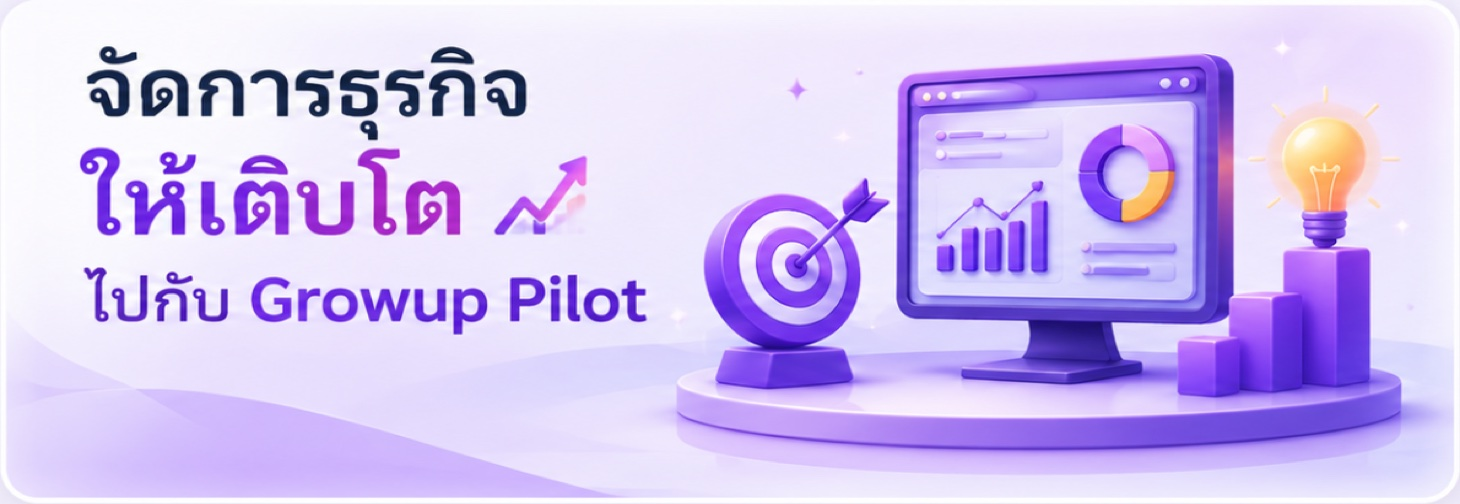
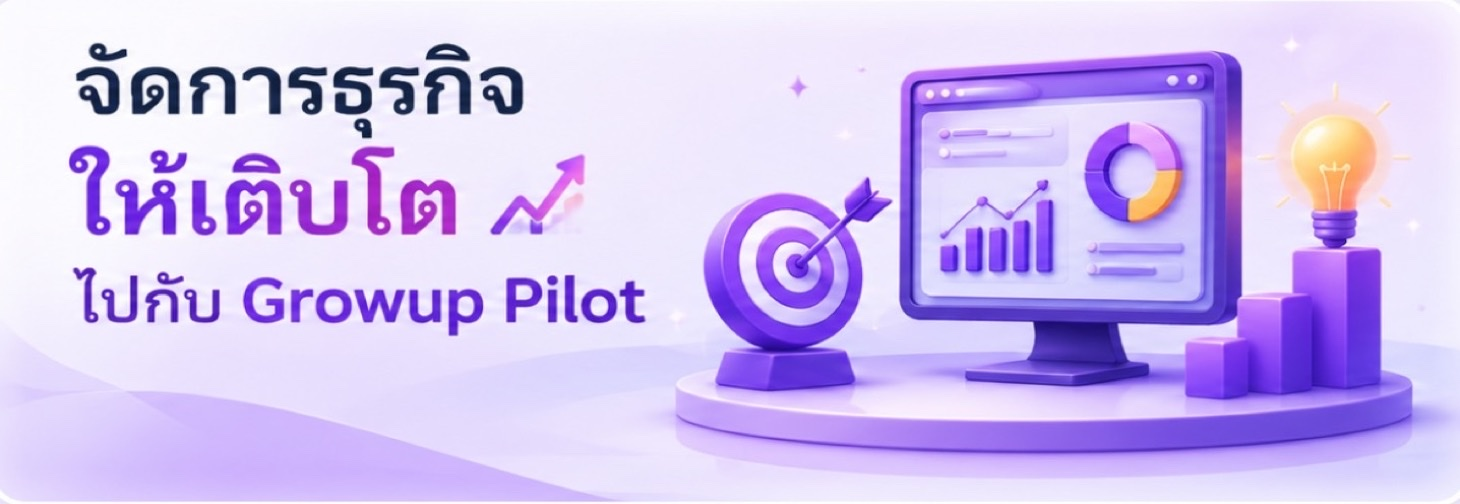
Clean light home hero frames

diff --git a/public/index.html b/public/index.html
@@ -13,7 +13,7 @@
     <link rel="preload" as="image" href="/icons/logo.png?v=20260718-website-logo-transparent-v1" fetchpriority="high">
     <link rel="preload" as="image" href="/mobile-home-avatar.png" fetchpriority="high" media="(max-width: 780px)">
     <link rel="preload" as="image" type="image/png" href="/icons/login-logo-192.png?v=20260718-website-logo-transparent-v1" fetchpriority="high">
-    <link rel="preload" as="image" href="/mobile-home-hero-light.jpg?v=[phone redacted]-home-light-v1" fetchpriority="high" media="(max-width: 780px) and (prefers-color-scheme: light)">
+    <link rel="preload" as="image" href="/mobile-home-hero-light.jpg?v=[phone redacted]-home-light-clean-v2" fetchpriority="high" media="(max-width: 780px) and (prefers-color-scheme: light)">
     <link rel="preload" as="image" href="/mobile-home-hero.png?v=[phone redacted]-mobile-hero-clean" fetchpriority="high" media="(max-width: 780px) and (prefers-color-scheme: dark)">
     <script>
       document.documentElement.classList.add("app-startup-pending");
@@ -22,7 +22,7 @@
         const mobileHero = new Image();
         mobileHero.decoding = "async";
         mobileHero.src = systemLight
-          ? "/mobile-home-hero-light.jpg?v=[phone redacted]-home-light-v1"
+          ? "/mobile-home-hero-light.jpg?v=[phone redacted]-home-light-clean-v2"
           : "/mobile-home-hero.png?v=[phone redacted]-mobile-hero-clean";
       }
     </script>
@@ -45,7 +45,7 @@
     <link rel="icon" type="image/png" sizes="32x32" href="/favicon-32x32.png?v=[phone redacted]-mobile-icon-v1">
     <link rel="icon" type="image/png" sizes="16x16" href="/favicon-16x16.png?v=[phone redacted]-mobile-icon-v1">
     <link rel="apple-touch-icon" sizes="180x180" href="/icons/growup-apple-touch-icon-180-20260718-installed-app-v2.png?v=20260718-installed-app-icon-v2">
-    <link rel="preload" as="image" href="/desktop-dashboard-hero-light.jpg?v=20260719-home-light-v1" fetchpriority="high" media="(min-width: 769px) and (prefers-color-scheme: light)">
+    <link rel="preload" as="image" href="/desktop-dashboard-hero-light.jpg?v=20260719-home-light-clean-v2" fetchpriority="high" media="(min-width: 769px) and (prefers-color-scheme: light)">
     <link rel="preload" as="image" type="image/webp" href="/desktop-dashboard-hero.webp?v=20260706-webp-v1" fetchpriority="high" media="(min-width: 769px) and (prefers-color-scheme: dark)">
     <script>
       (() => {
@@ -56,7 +56,7 @@
         document.documentElement.dataset.theme = resolved;
       })();
     </script>
-    <link rel="stylesheet" href="/styles.css?v=20260719-home-light-hero-v2">
+    <link rel="stylesheet" href="/styles.css?v=20260719-home-light-clean-v3">
   </head>
   <body>
     <div id="appStartupLoader" class="app-startup-loader" aria-hidden="true">
@@ -497,9 +497,9 @@
       </form>
     </dialog>
 
-    <script src="/app.js?v=20260719-home-light-hero-v1"></script>
+    <script src="/app.js?v=20260719-home-light-clean-v3"></script>
     <script>
-      const swUrl = "/service-worker.js?v=20260719-home-light-hero-v2";
+      const swUrl = "/service-worker.js?v=20260719-home-light-clean-v3";
       if ("serviceWorker" in navigator) {
         window.addEventListener("load", () => {
           navigator.serviceWorker.register(swUrl).then(registration => registration.update()).catch(() => {});

diff --git a/scripts/dashboard-opportunity-summary-test.js b/scripts/dashboard-opportunity-summary-test.js
@@ -205,13 +205,13 @@ function assertSharedSummary(width, mode) {
   }
   if (mode === "desktop") {
     const setup = api.mobileSetupWizardState();
-    if (!dashboardHtml.includes("/desktop-dashboard-hero-light.jpg?v=20260719-home-light-v1")) {
+    if (!dashboardHtml.includes("/desktop-dashboard-hero-light.jpg?v=20260719-home-light-clean-v2")) {
       fail("desktop light dashboard must render the separate light hero asset");
     }
     if (!dashboardHtml.includes('data-dark-src="/desktop-dashboard-hero.webp?v=20260706-webp-v1"')) {
       fail("desktop dashboard must keep the dark hero asset available for theme switching");
     }
-    if (dashboardHtml.includes("/mobile-home-hero-light.jpg?v=[phone redacted]-home-light-v1")) {
+    if (dashboardHtml.includes("/mobile-home-hero-light.jpg?v=[phone redacted]-home-light-clean-v2")) {
       fail("desktop dashboard must not render the mobile light hero asset");
     }
     if (!dashboardHtml.includes(`<strong>${setup.percent}%</strong>`) || !dashboardHtml.includes(`เสร็จแล้ว ${setup.completeCount} จาก ${setup.steps.length} ขั้นตอน`) || !dashboardHtml.includes(`style="width:${setup.percent}%"`)) {
@@ -227,13 +227,13 @@ function assertSharedSummary(width, mode) {
     if (!dashboardHtml.includes("เปิดดู")) fail("desktop notification rows must preserve the existing row action label");
   }
   if (mode === "mobile") {
-    if (!dashboardHtml.includes("/mobile-home-hero-light.jpg?v=[phone redacted]-home-light-v1")) {
+    if (!dashboardHtml.includes("/mobile-home-hero-light.jpg?v=[phone redacted]-home-light-clean-v2")) {
       fail("mobile light dashboard must render the separate light hero asset");
     }
     if (!dashboardHtml.includes('data-dark-src="/mobile-home-hero.png?v=[phone redacted]-mobile-hero-clean"')) {
       fail("mobile dashboard must keep the dark hero asset available for theme switching");
     }
-    if (dashboardHtml.includes("/desktop-dashboard-hero-light.jpg?v=20260719-home-light-v1")) {
+    if (dashboardHtml.includes("/desktop-dashboard-hero-light.jpg?v=20260719-home-light-clean-v2")) {
       fail("mobile dashboard must not render the desktop light hero asset");
     }
   }
@@ -295,6 +295,9 @@ if (!source.includes("data-open-notification=") || !source.includes("data-open-n
 }
 if (!styles.includes("grid-template-columns: repeat(5, minmax(0, 1fr));")) {
   fail("desktop quick-action grid must use five equal columns");
+}
+if (!styles.includes("object-fit: cover;") || !styles.includes("isolation: isolate;")) {
+  fail("light hero images must be clipped and cover their single card boundary");
 }
 if (!source.includes("data-dashboard-theme-image") || !source.includes("syncDashboardThemeAssets()")) {
   fail("dashboard theme assets must switch from the resolved theme without duplicating render paths");

diff --git a/public/service-worker.js b/public/service-worker.js
@@ -1,4 +1,4 @@
-const CACHE_NAME = "growup-pilot-pwa-v117-home-light-hero-v2";
+const CACHE_NAME = "growup-pilot-pwa-v118-home-light-clean-v3";
 const CORE_ASSETS = [
   "/",
   "/index.html",
@@ -7,13 +7,13 @@ const CORE_ASSETS = [
   "/favicon-16x16.png?v=[phone redacted]-mobile-icon-v1",
   "/favicon-32x32.png?v=[phone redacted]-mobile-icon-v1",
   "/favicon-48x48.png?v=[phone redacted]-mobile-icon-v1",
-  "/styles.css?v=20260719-home-light-hero-v2",
-  "/app.js?v=20260719-home-light-hero-v1",
+  "/styles.css?v=20260719-home-light-clean-v3",
+  "/app.js?v=20260719-home-light-clean-v3",
   "/desktop-dashboard-hero.webp?v=20260706-webp-v1",
-  "/desktop-dashboard-hero-light.jpg?v=20260719-home-light-v1",
+  "/desktop-dashboard-hero-light.jpg?v=20260719-home-light-clean-v2",
   "/desktop-onboarding-rocket.webp?v=20260706-webp-v1",
   "/mobile-home-hero.png?v=[phone redacted]-mobile-hero-clean",
-  "/mobile-home-hero-light.jpg?v=[phone redacted]-home-light-v1",
+  "/mobile-home-hero-light.jpg?v=[phone redacted]-home-light-clean-v2",
   "/mobile-home-avatar.png",
   "/import-worker.js",
   "/xlsx.full.min.js",

diff --git a/public/styles.css b/public/styles.css
@@ -25666,10 +25666,15 @@ html[data-theme="light"] body.desktop-dashboard-view:not(.login-view) .desktop-r
   border-color: rgba(226, 218, 249, 0.86);
   background: #fbfaff;
   box-shadow: 0 14px 34px rgba(88, 67, 132, 0.14), inset 0 1px rgba(255, 255, 255, 0.92);
+  isolation: isolate;
 }
 
 html[data-theme="light"] body.desktop-dashboard-view:not(.login-view) .desktop-reference-growth-banner img {
+  width: 100%;
+  height: 100%;
   border-radius: inherit;
+  object-fit: cover;
+  object-position: center;
 }
 
 html[data-theme="light"] body.desktop-dashboard-view:not(.login-view) .desktop-reference-onboarding {
@@ -25764,8 +25769,13 @@ html[data-theme="light"] body.mobile-home-view:not(.login-view) .mobile-hero-car
   border-color: rgba(231, 224, 250, 0.94);
   background: #fbfaff;
   box-shadow: 0 18px 36px rgba(88, 67, 132, 0.14), inset 0 1px rgba(255, 255, 255, 0.94);
+  isolation: isolate;
 }
 
 html[data-theme="light"] body.mobile-home-view:not(.login-view) .mobile-hero-image {
+  width: 100%;
+  height: auto;
   border-radius: inherit;
+  object-fit: cover;
+  object-position: center;
 }

diff --git a/public/app.js b/public/app.js
@@ -3849,10 +3849,10 @@ function renderMobileDashboard(viewModel) {
         <section class="mobile-hero-card">
           <img
             class="mobile-hero-image"
-            src="${dashboardThemeAssetSrc("/mobile-home-hero.png?v=[phone redacted]-mobile-hero-clean", "/mobile-home-hero-light.jpg?v=[phone redacted]-home-light-v1")}"
+            src="${dashboardThemeAssetSrc("/mobile-home-hero.png?v=[phone redacted]-mobile-hero-clean", "/mobile-home-hero-light.jpg?v=[phone redacted]-home-light-clean-v2")}"
             data-dashboard-theme-image
             data-dark-src="/mobile-home-hero.png?v=[phone redacted]-mobile-hero-clean"
-            data-light-src="/mobile-home-hero-light.jpg?v=[phone redacted]-home-light-v1"
+            data-light-src="/mobile-home-hero-light.jpg?v=[phone redacted]-home-light-clean-v2"
             alt="จัดการธุรกิจให้เติบโต ไปกับ Growup Pilot"
             loading="eager"
             fetchpriority="high"
@@ -4101,10 +4101,10 @@ function renderDesktopDashboard(viewModel) {
           <article class="desktop-reference-growth-banner">
             <img
               class="desktop-reference-growth-image"
-              src="${dashboardThemeAssetSrc("/desktop-dashboard-hero.webp?v=20260706-webp-v1", "/desktop-dashboard-hero-light.jpg?v=20260719-home-light-v1")}"
+              src="${dashboardThemeAssetSrc("/desktop-dashboard-hero.webp?v=20260706-webp-v1", "/desktop-dashboard-hero-light.jpg?v=20260719-home-light-clean-v2")}"
               data-dashboard-theme-image
               data-dark-src="/desktop-dashboard-hero.webp?v=20260706-webp-v1"
-              data-light-src="/desktop-dashboard-hero-light.jpg?v=20260719-home-light-v1"
+              data-light-src="/desktop-dashboard-hero-light.jpg?v=20260719-home-light-clean-v2"
               alt="จัดการธุรกิจให้เติบโต ไปกับ Growup Pilot"
               loading="eager"
               fetchpriority="high"